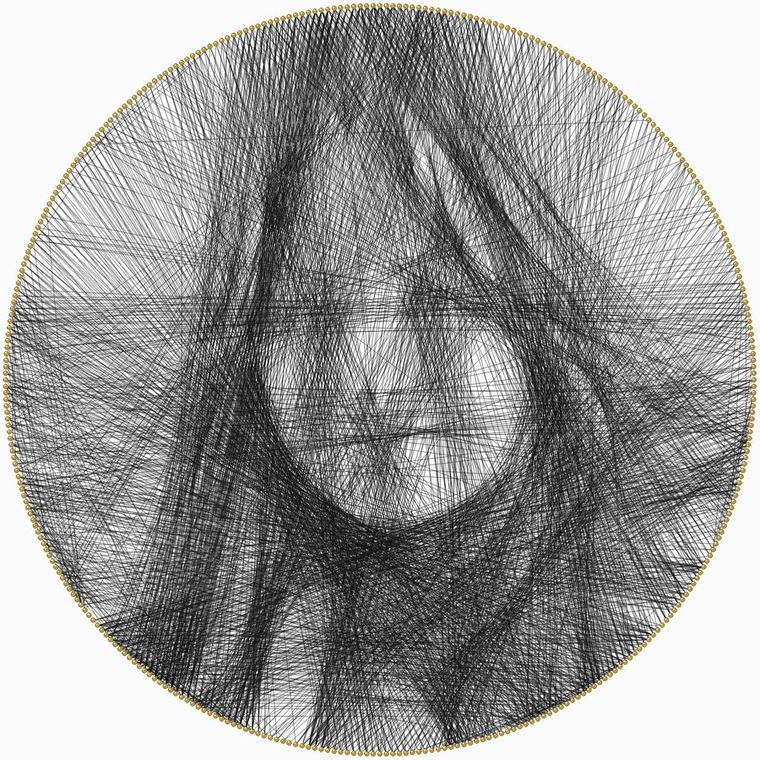
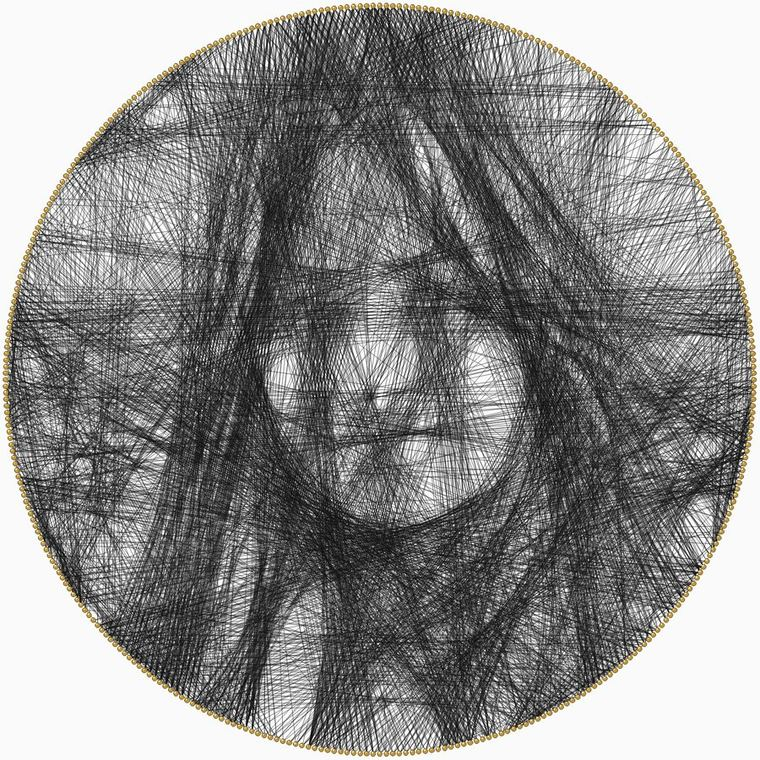
Zähler unter das Katzenbild (verdeckt nichts mehr), Original als Etikett; nur Schwarz mit Kantenschärfe neu gerechnet
Claude-Session: https://claude.ai/code/session_01MQd3Ez1WfSEqrkkXqKTc86

diff --git a/templates/index.html b/templates/index.html
@@ -36,10 +36,6 @@
       <div class="build-art">
         <canvas id="buildCanvas" width="1000" height="1000" role="img" aria-label="Das Fadenbild der Katze, so weit gespannt wie der Regler steht"></canvas>
       </div>
-      <div class="build-meter">
-        <p><b id="bN">0</b><span>Fäden</span></p>
-        <p><b id="bM">0</b><span>Meter Faden</span></p>
-      </div>
     </div>
     <div class="scrub-wrap">
       <div class="scrub" id="scrub" role="slider" tabindex="0" aria-label="Gespannte Fäden" aria-valuemin="0" aria-valuemax="6110" aria-valuenow="0">
@@ -55,6 +51,10 @@
         <li><h3>Dann Schatten und Kontur.</h3><p>Der schwarze Faden zeichnet die Schatten, der weiße das Licht. Die Form tritt hervor.</p></li>
         <li><h3>Zum Schluss der Blick.</h3><p>Die letzten Fäden schärfen Augen und Fell. So viel Arbeit steckt in jedem Bild, das wir für Sie spannen.</p></li>
       </ol>
+      <div class="build-meter">
+        <p><b id="bN">0</b><span>Fäden</span></p>
+        <p><b id="bM">0</b><span>Meter Faden</span></p>
+      </div>
       <div class="player" role="group" aria-label="Spannen steuern">
         <button type="button" id="pBack" aria-label="Rückwärts abspielen"><svg viewBox="0 0 24 24" aria-hidden="true"><path d="M11 6 3 12l8 6zM20 6l-8 6 8 6z"/></svg></button>
         <button type="button" id="pPlay" class="main" aria-label="Pause"><svg class="i-pause" viewBox="0 0 24 24" aria-hidden="true"><path d="M7 5h3.5v14H7zM13.5 5H17v14h-3.5z"/></svg><svg class="i-play" viewBox="0 0 24 24" aria-hidden="true"><path d="M8 5v14l11-7z"/></svg></button>

diff --git a/static/home.css b/static/home.css
@@ -303,3 +303,10 @@ body.v2 .steps-v{max-width:none;margin:3rem 0 0}
 .player .i-play,.player .paused .i-pause{display:none}
 .player .paused .i-play{display:block}
 .player-note{color:var(--muted);font-size:.9rem;margin-left:.4rem;min-width:11ch}
+/* Zähler neben den Knöpfen statt über dem Bild; "Original" als Etikett auf dem Foto */
+.build-meter{position:static;display:flex;gap:2rem;justify-content:flex-start;text-align:left;background:none;border:0;padding:0;margin-top:1.5rem;-webkit-backdrop-filter:none;backdrop-filter:none}
+.build-meter p{justify-content:flex-start}
+.build-meter b{font-size:2rem;min-width:0}
+.build-orig{position:absolute}
+.build-orig figcaption{position:absolute;left:50%;bottom:4%;transform:translateX(-50%);margin:0;padding:.15rem .6rem;border-radius:999px;background:rgba(23,17,12,.85);border:1px solid var(--line);font-size:.75rem;color:var(--ivory);white-space:nowrap}
+@media(max-width:900px) and (orientation:portrait),(max-width:600px){.build-meter{gap:1.5rem;margin-top:1rem}.build-meter b{font-size:1.6rem}}
